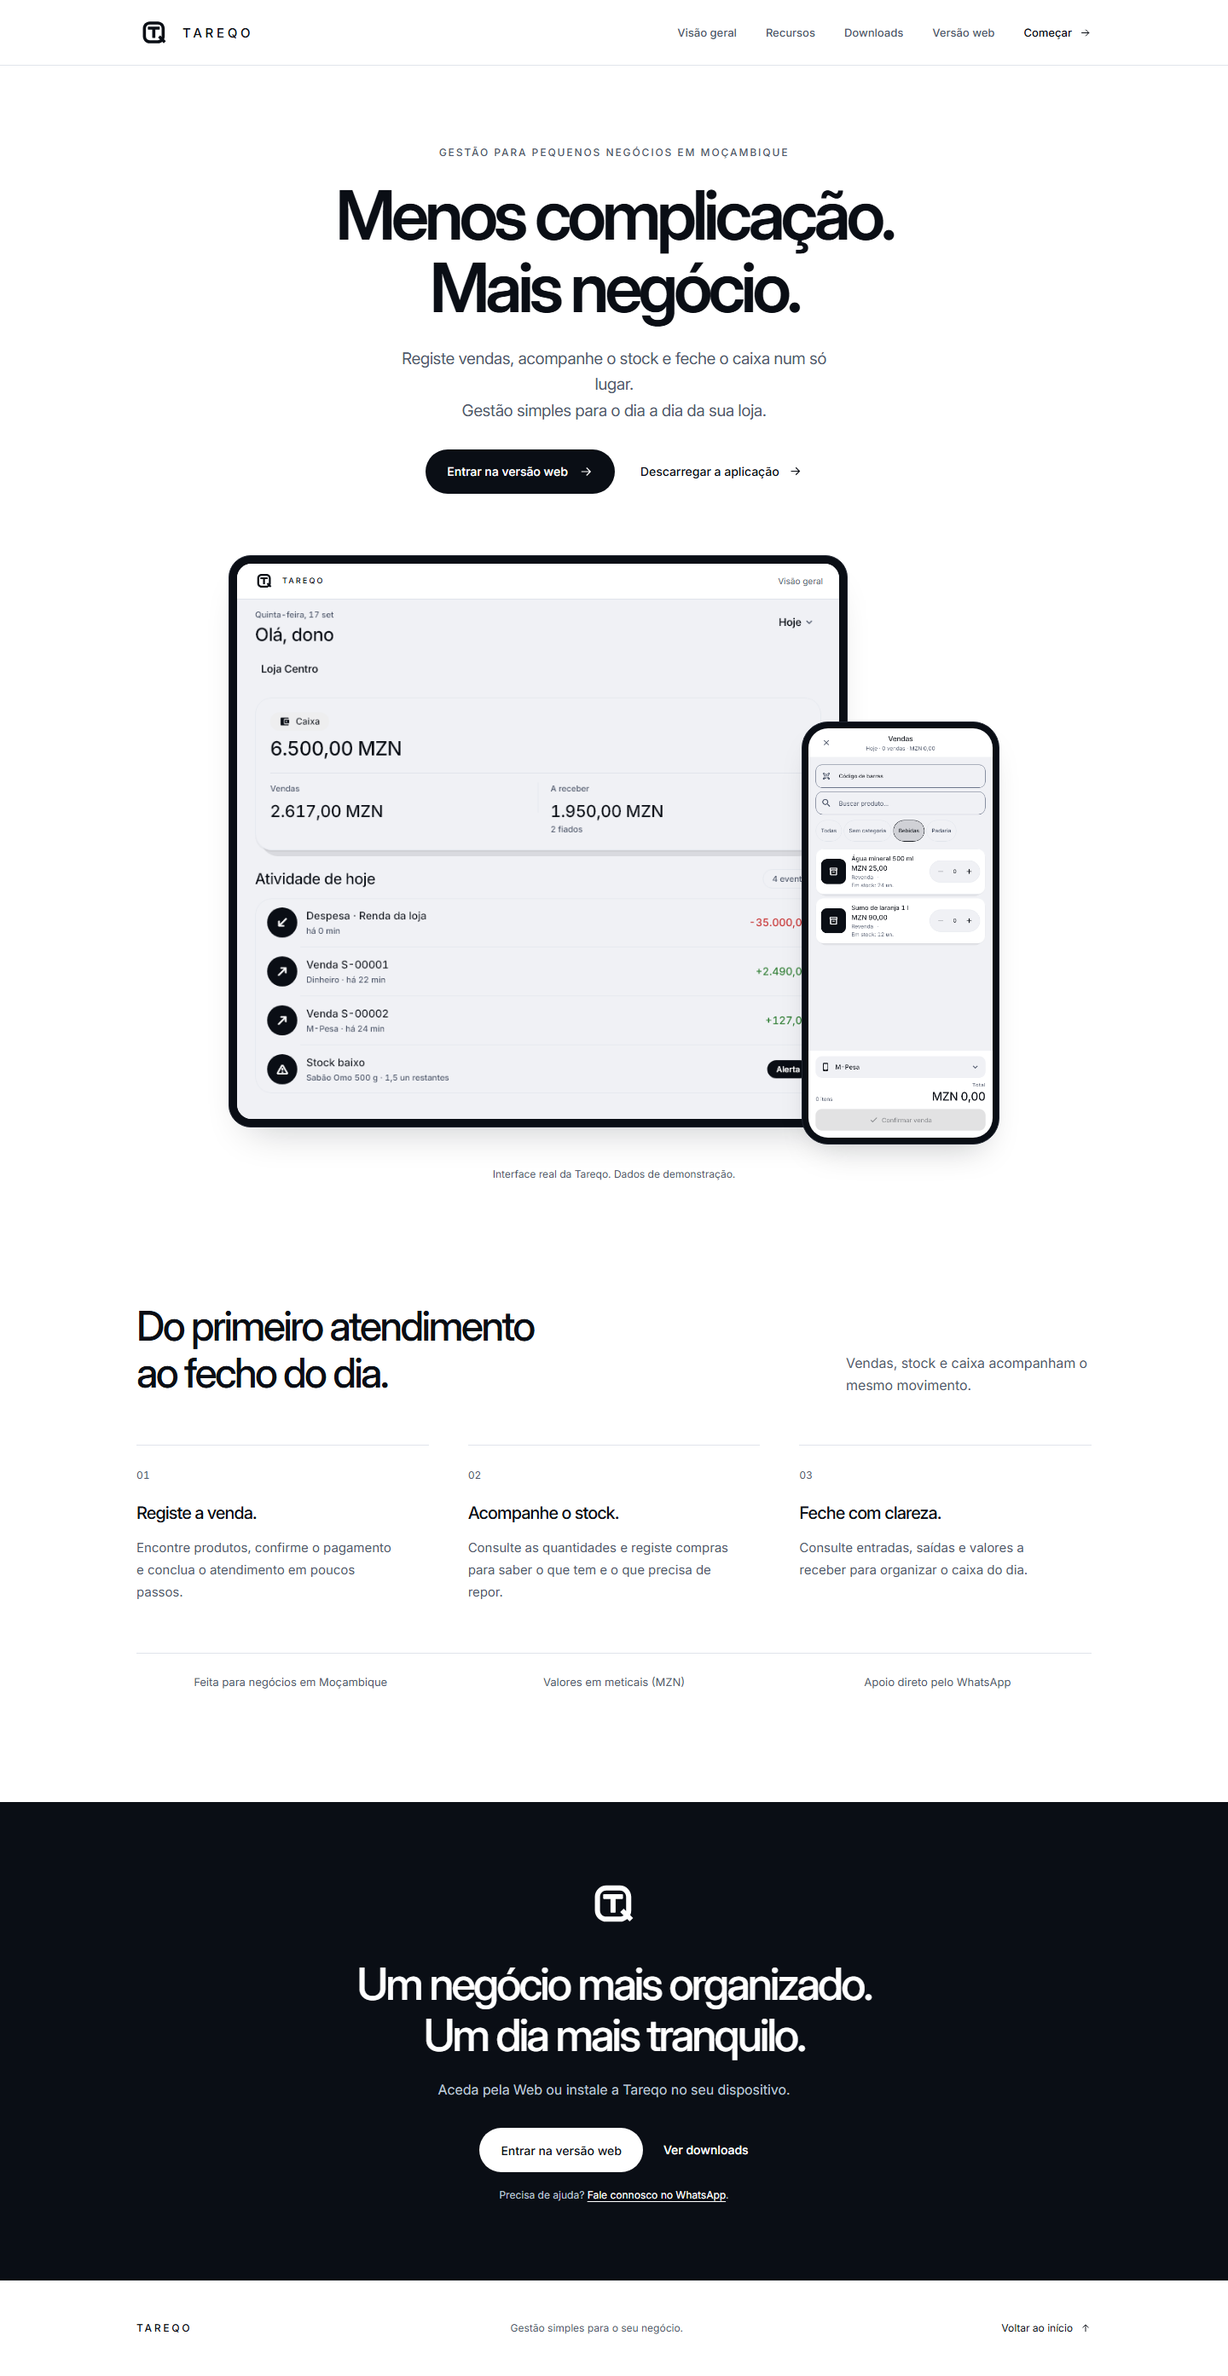
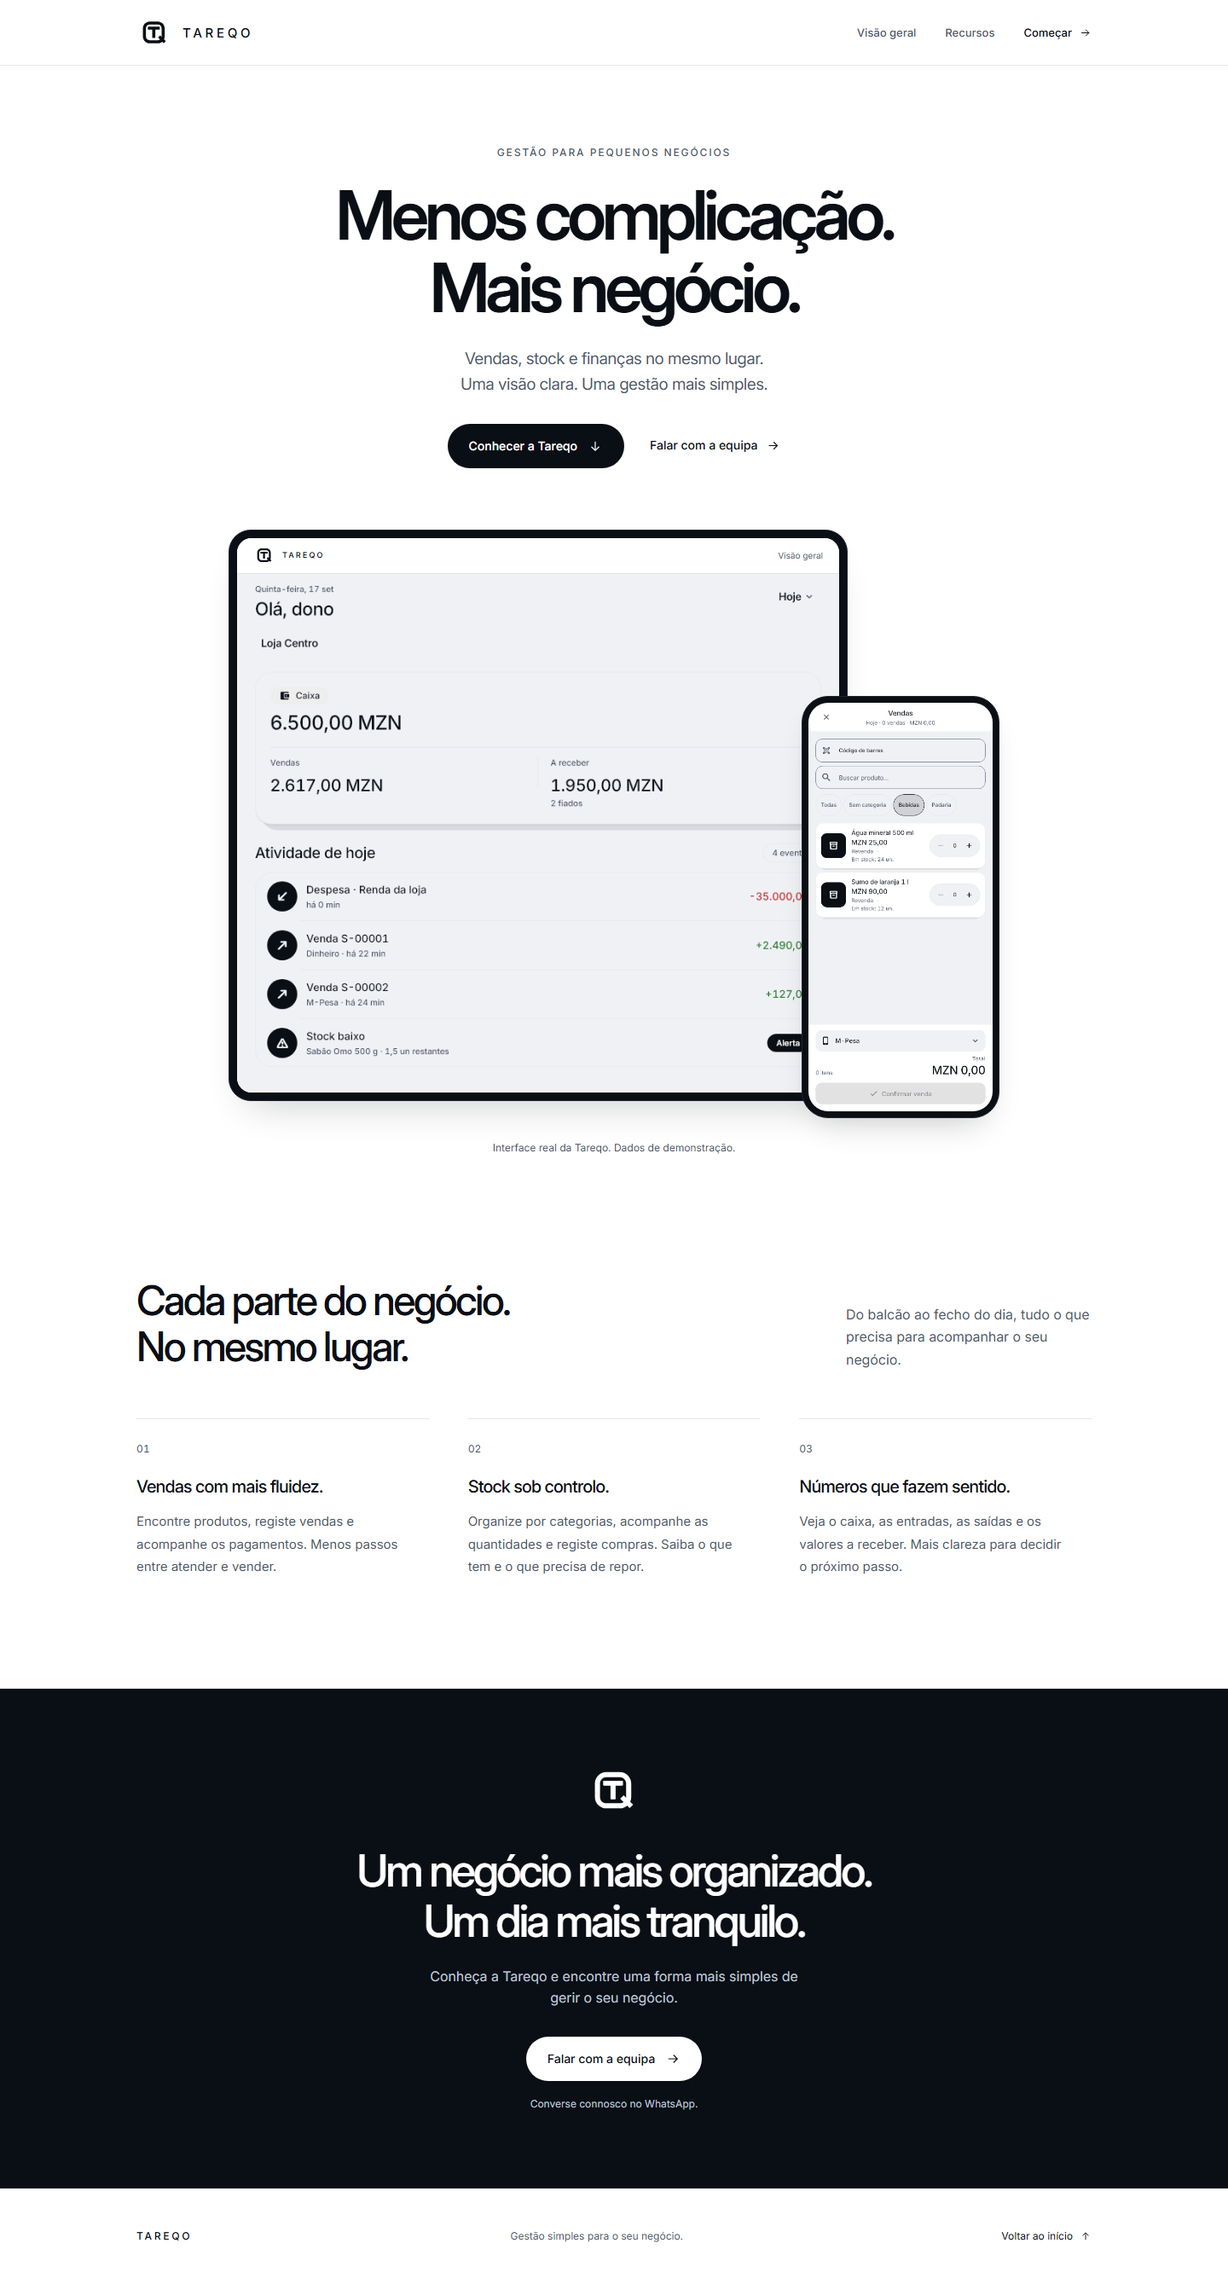
Revert "feat(landing): clarify Tareqo value and downloads"
This reverts commit 401ec6ac0885d5e40be1bd7742ed1b0695684dec.

diff --git a/website/index.html b/website/index.html
@@ -4,13 +4,13 @@
   <meta charset="utf-8">
   <meta name="viewport" content="width=device-width, initial-scale=1">
   <meta name="theme-color" content="#FFFFFF">
-  <meta name="description" content="Gestão para pequenos negócios em Moçambique: vendas, stock, compras e caixa num só lugar.">
+  <meta name="description" content="Vendas, stock e finanças no mesmo lugar. Conheça a Tareqo: uma forma simples de gerir o seu negócio, as suas lojas e a sua equipa.">
   <meta property="og:type" content="website">
   <meta property="og:title" content="Tareqo — Menos complicação. Mais negócio.">
-  <meta property="og:description" content="Registe vendas, acompanhe o stock e feche o caixa com uma visão clara do seu negócio.">
+  <meta property="og:description" content="Uma visão clara das vendas, do stock e das finanças. Gestão pensada para o seu dia a dia.">
   <meta property="og:locale" content="pt_MZ">
   <meta name="color-scheme" content="light">
-  <title>Tareqo — Vendas, stock e caixa para pequenos negócios</title>
+  <title>Tareqo — Menos complicação. Mais negócio.</title>
   <link rel="icon" href="assets/favicon.svg" type="image/svg+xml">
   <link rel="preload" href="assets/Inter-Variable.ttf" as="font" type="font/ttf" crossorigin>
   <style>
@@ -151,17 +151,13 @@
     .feature-number { display: block; margin-bottom: 22px; color: var(--text-secondary); font-size: 12px; font-variant-numeric: tabular-nums; }
     .feature h3 { font-size: 20px; font-weight: 500; letter-spacing: -0.04em; line-height: 1.35; }
     .feature p { margin-top: 14px; color: var(--text-secondary); font-size: 15px; line-height: 1.75; max-width: 310px; }
-    .trust-list { display: grid; grid-template-columns: repeat(3, 1fr); gap: 18px; margin: 58px 0 0; padding: 23px 0 0; border-top: 1px solid var(--line); list-style: none; color: var(--text-secondary); text-align: center; font-size: 13px; }
     .closing { background: var(--ink); color: var(--paper); padding: 84px 24px 90px; text-align: center; }
     .closing-logo { width: 70px; height: 70px; margin: 0 auto 30px; }
     .closing h2 { max-width: 710px; margin: auto; font-size: clamp(34px, 4.1vw, 52px); }
     .closing-copy { max-width: 460px; margin: 22px auto 0; color: var(--on-dark-secondary); font-size: 16px; }
     .button-light { margin-top: 32px; background: var(--paper); color: var(--ink); }
     .button-light:hover { background: var(--canvas); transform: translateY(-2px); }
-    .closing-actions { display: flex; align-items: center; justify-content: center; flex-wrap: wrap; gap: 12px 24px; }
-    .closing-link { display: inline-flex; align-items: center; justify-content: center; min-height: 50px; margin-top: 32px; color: var(--paper); font-size: 14px; font-weight: 500; }
     .contact-note { margin-top: 17px; color: var(--on-dark-secondary); font-size: 12px; }
-    .contact-note a { color: var(--paper); text-decoration: underline; text-underline-offset: 3px; }
     .site-footer { padding: 32px 0; }
     .footer-inner { display: flex; align-items: center; justify-content: space-between; gap: 24px; }
     .footer-inner .wordmark { font-size: 12px; letter-spacing: 0.23em; }
@@ -213,7 +209,6 @@
       .feature-number { margin-bottom: 14px; }
       .feature h3 { font-size: 21px; }
       .feature p { max-width: 100%; font-size: 15px; margin-top: 10px; }
-      .trust-list { grid-template-columns: 1fr; gap: 10px; margin-top: 40px; text-align: left; }
       .closing { padding: 62px 20px 64px; }
       .closing-logo { width: 60px; height: 60px; margin-bottom: 25px; }
       .closing h2 { font-size: 34px; }
@@ -254,12 +249,13 @@
   </header>
   <main id="conteudo" tabindex="-1">
     <section class="hero container" aria-labelledby="hero-title">
-      <p class="eyebrow">Gestão para pequenos negócios em Moçambique</p>
+      <p class="eyebrow">Gestão para pequenos negócios</p>
       <h1 id="hero-title"><span>Menos complicação.</span><span>Mais negócio.</span></h1>
-      <p class="hero-copy">Registe vendas, acompanhe o stock e feche o caixa num só lugar.<br>Gestão simples para o dia a dia da sua loja.</p>
+      <p class="hero-copy">Vendas, stock e finanças no mesmo lugar.<br>Uma visão clara. Uma gestão mais simples.</p>
       <div class="hero-actions">
-        <a class="button button-dark" href="https://app.dumbhanengue.com/">Entrar na versão web <svg viewBox="0 0 24 24" fill="none" stroke="currentColor" stroke-width="1.6" aria-hidden="true"><path d="M5 12h14M13 6l6 6-6 6"/></svg></a>
-        <a class="text-link" href="downloads.html">Descarregar a aplicação <svg viewBox="0 0 24 24" fill="none" stroke="currentColor" stroke-width="1.6" aria-hidden="true"><path d="M5 12h14M13 6l6 6-6 6"/></svg></a>
+        <a class="button button-dark" href="#produto">Conhecer a Tareqo <svg viewBox="0 0 24 24" fill="none" stroke="currentColor" stroke-width="1.6" aria-hidden="true"><path d="M12 5v14M6 13l6 6 6-6"/></svg></a>
+        <a class="text-link" href="https://app.dumbhanengue.com/">Abrir no navegador <svg viewBox="0 0 24 24" fill="none" stroke="currentColor" stroke-width="1.6" aria-hidden="true"><path d="M5 12h14M13 6l6 6-6 6"/></svg></a>
+        <a class="text-link" href="https://wa.me/258846606062?text=Ol%C3%A1%21%20Quero%20conhecer%20a%20Tareqo%20para%20o%20meu%20neg%C3%B3cio." target="_blank" rel="noopener noreferrer">Falar com a equipa <svg viewBox="0 0 24 24" fill="none" stroke="currentColor" stroke-width="1.6" aria-hidden="true"><path d="M5 12h14M13 6l6 6-6 6"/></svg><span class="sr-only"> (WhatsApp, abre numa nova janela)</span></a>
       </div>
       <figure class="product" id="produto" aria-label="Uma visão do aplicativo Tareqo">
         <div class="product-stage">
@@ -278,41 +274,34 @@
     </section>
     <section class="capabilities container" id="recursos" aria-labelledby="recursos-title">
       <div class="section-heading">
-        <h2 id="recursos-title">Do primeiro atendimento<br>ao fecho do dia.</h2>
-        <p>Vendas, stock e caixa acompanham o mesmo movimento.</p>
+        <h2 id="recursos-title">Cada parte do negócio.<br>No mesmo lugar.</h2>
+        <p>Do balcão ao fecho do dia, tudo o que precisa para acompanhar o seu negócio.</p>
       </div>
       <div class="feature-grid">
         <article class="feature">
           <span class="feature-number" aria-hidden="true">01</span>
-          <h3>Registe a venda.</h3>
-          <p>Encontre produtos, confirme o pagamento e conclua o atendimento em poucos passos.</p>
+          <h3>Vendas com mais fluidez.</h3>
+          <p>Encontre produtos, registe vendas e acompanhe os pagamentos. Menos passos entre atender e vender.</p>
         </article>
         <article class="feature">
           <span class="feature-number" aria-hidden="true">02</span>
-          <h3>Acompanhe o stock.</h3>
-          <p>Consulte as quantidades e registe compras para saber o que tem e o que precisa de repor.</p>
+          <h3>Stock sob controlo.</h3>
+          <p>Organize por categorias, acompanhe as quantidades e registe compras. Saiba o que tem e o que precisa de repor.</p>
         </article>
         <article class="feature">
           <span class="feature-number" aria-hidden="true">03</span>
-          <h3>Feche com clareza.</h3>
-          <p>Consulte entradas, saídas e valores a receber para organizar o caixa do dia.</p>
+          <h3>Números que fazem sentido.</h3>
+          <p>Veja o caixa, as entradas, as saídas e os valores a receber. Mais clareza para decidir o próximo passo.</p>
         </article>
       </div>
-      <ul class="trust-list" aria-label="Informações sobre a Tareqo">
-        <li>Feita para negócios em Moçambique</li>
-        <li>Valores em meticais (MZN)</li>
-        <li>Apoio direto pelo WhatsApp</li>
-      </ul>
     </section>
     <section class="closing" id="comecar" aria-labelledby="comecar-title">
       <img class="closing-logo" src="assets/tq-white.svg" width="70" height="70" alt="">
       <h2 id="comecar-title">Um negócio mais organizado.<br>Um dia mais tranquilo.</h2>
-      <p class="closing-copy">Aceda pela Web ou instale a Tareqo no seu dispositivo.</p>
-      <div class="closing-actions">
-        <a class="button button-light" href="https://app.dumbhanengue.com/">Entrar na versão web</a>
-        <a class="closing-link" href="downloads.html">Ver downloads</a>
-      </div>
-      <p class="contact-note">Precisa de ajuda? <a href="https://wa.me/258846606062?text=Ol%C3%A1%21%20Quero%20conhecer%20a%20Tareqo%20para%20o%20meu%20neg%C3%B3cio." target="_blank" rel="noopener noreferrer">Fale connosco no WhatsApp</a>.</p>
+      <p class="closing-copy">Conheça a Tareqo e encontre uma forma mais simples de gerir o seu negócio.</p>
+      <a class="button button-light" href="downloads.html" style="margin-right: 10px;">Descarregar a aplicação</a>
+      <a class="button button-light" href="https://wa.me/258846606062?text=Ol%C3%A1%21%20Quero%20conhecer%20a%20Tareqo%20para%20o%20meu%20neg%C3%B3cio." target="_blank" rel="noopener noreferrer" aria-label="Falar com a equipa no WhatsApp (abre numa nova janela)">Falar com a equipa <svg viewBox="0 0 24 24" fill="none" stroke="currentColor" stroke-width="1.6" aria-hidden="true"><path d="M5 12h14M13 6l6 6-6 6"/></svg></a>
+      <p class="contact-note">Converse connosco no WhatsApp.</p>
     </section>
   </main>
   <footer class="site-footer">

diff --git a/website/downloads.html b/website/downloads.html
@@ -4,7 +4,7 @@
   <meta charset="utf-8">
   <meta name="viewport" content="width=device-width, initial-scale=1">
   <meta name="theme-color" content="#FFFFFF">
-  <meta name="description" content="Aceda à Tareqo pela Web ou instale a aplicação em Android e Windows.">
+  <meta name="description" content="Use a Tareqo no navegador ou descarregue para Android e Windows. A versão para iPhone estará disponível em breve.">
   <title>Downloads — Tareqo</title>
   <link rel="icon" href="assets/favicon.svg" type="image/svg+xml">
   <link rel="preload" href="assets/Inter-Variable.ttf" as="font" type="font/ttf" crossorigin>
@@ -15,7 +15,7 @@
     a{color:inherit;text-decoration:none} a:focus-visible{outline:2px solid currentColor;outline-offset:5px} .container{width:min(var(--width),calc(100% - 40px));margin:auto}
     header{border-bottom:1px solid var(--line)} .header{min-height:76px;display:flex;align-items:center;justify-content:space-between;gap:20px}.brand{display:flex;align-items:center;gap:10px}.brand img{width:40px;height:40px}.wordmark{font-size:14px;font-weight:600;letter-spacing:.24em}.back{font-size:14px;color:var(--secondary)}
     main{padding:88px 0 110px}.eyebrow{text-transform:uppercase;letter-spacing:.15em;font-size:12px;color:var(--secondary)}h1{margin:16px 0 0;font-size:clamp(42px,7vw,68px);line-height:1.06;letter-spacing:-.06em;font-weight:600}.intro{max-width:560px;color:var(--secondary);font-size:18px;margin:22px 0 0}
-    .grid{display:grid;grid-template-columns:repeat(auto-fit,minmax(220px,1fr));gap:18px;margin-top:48px}.card{border:1px solid var(--line);border-radius:20px;padding:28px;display:flex;flex-direction:column;min-height:260px}.platform{font-size:12px;color:var(--secondary);text-transform:uppercase;letter-spacing:.12em}.card h2{font-size:23px;letter-spacing:-.04em;margin:12px 0 8px}.card p{font-size:14px;color:var(--secondary);margin:0 0 24px}.button{margin-top:auto;min-height:48px;padding:12px 18px;background:var(--ink);color:white;border-radius:999px;text-align:center;font-size:14px;font-weight:500}.button:hover{background:#212631}.soon{background:var(--canvas);color:var(--secondary);cursor:default}.note{margin-top:26px;font-size:13px;color:var(--secondary)}.note a{color:var(--ink);text-decoration:underline;text-underline-offset:3px}footer{border-top:1px solid var(--line);padding:24px 0;color:var(--secondary);font-size:12px}.footer{display:flex;justify-content:space-between;gap:16px}
+    .grid{display:grid;grid-template-columns:repeat(auto-fit,minmax(220px,1fr));gap:18px;margin-top:48px}.card{border:1px solid var(--line);border-radius:20px;padding:28px;display:flex;flex-direction:column;min-height:260px}.platform{font-size:12px;color:var(--secondary);text-transform:uppercase;letter-spacing:.12em}.card h2{font-size:23px;letter-spacing:-.04em;margin:12px 0 8px}.card p{font-size:14px;color:var(--secondary);margin:0 0 24px}.button{margin-top:auto;min-height:48px;padding:12px 18px;background:var(--ink);color:white;border-radius:999px;text-align:center;font-size:14px;font-weight:500}.button:hover{background:#212631}.soon{background:var(--canvas);color:var(--secondary);cursor:default}.note{margin-top:26px;font-size:13px;color:var(--secondary)}footer{border-top:1px solid var(--line);padding:24px 0;color:var(--secondary);font-size:12px}.footer{display:flex;justify-content:space-between;gap:16px}
     @media(max-width:700px){main{padding:64px 0 76px}.grid{grid-template-columns:1fr;margin-top:34px}.card{min-height:220px}.intro{font-size:16px}.footer{flex-direction:column}}
   </style>
 </head>
@@ -24,14 +24,14 @@
   <main class="container">
     <p class="eyebrow">Instale a Tareqo</p>
     <h1>Downloads</h1>
-    <p class="intro">Entre pela Web ou instale a aplicação no Android ou Windows. Os downloads são sempre da versão oficial mais recente.</p>
+    <p class="intro">Abra a Tareqo no navegador ou instale no seu dispositivo. Use sempre a versão mais recente publicada pela equipa Tareqo.</p>
     <section class="grid" aria-label="Aplicações disponíveis">
-      <article class="card"><span class="platform">Web</span><h2>No navegador</h2><p>Entre na sua conta e use a Tareqo no navegador, sem instalar.</p><a class="button" href="https://app.dumbhanengue.com/" aria-label="Abrir a versão web da Tareqo no navegador">Abrir versão web</a></article>
-      <article class="card"><span class="platform">Android</span><h2>Telemóvel ou tablet</h2><p>APK oficial para instalar a Tareqo diretamente no seu dispositivo Android.</p><a class="button" href="https://github.com/tareqotechnologies/Tareqo/releases/latest/download/tareqo-android.apk" aria-label="Descarregar APK da versão mais recente da Tareqo para Android">Descarregar APK</a></article>
-      <article class="card"><span class="platform">Windows</span><h2>Computador</h2><p>Instalador único para Windows 10 e 11. Inclui a aplicação e os recursos necessários.</p><a class="button" href="https://github.com/tareqotechnologies/Tareqo/releases/latest/download/TAREQO_SETUP.exe" aria-label="Descarregar aplicação da versão mais recente da Tareqo para Windows">Descarregar para Windows</a></article>
-      <article class="card"><span class="platform">iPhone e iPad</span><h2>iOS</h2><p>A versão para iPhone e iPad ainda está em preparação.</p><span class="button soon" aria-label="Versão iOS em breve">Disponível em breve</span></article>
+      <article class="card"><span class="platform">Web</span><h2>No navegador</h2><p>Use a Tareqo sem instalar nada. Funciona em computador, tablet e telemóvel.</p><a class="button" href="https://app.dumbhanengue.com/" aria-label="Abrir a versão web da Tareqo no navegador">Abrir versão web</a></article>
+      <article class="card"><span class="platform">Android</span><h2>Telemóvel ou tablet</h2><p>Descarregue o ficheiro APK e abra-o no dispositivo Android para instalar.</p><a class="button" href="https://github.com/tareqotechnologies/Tareqo/releases/latest/download/tareqo-android.apk" aria-label="Descarregar APK da versão mais recente da Tareqo para Android">Descarregar APK</a></article>
+      <article class="card"><span class="platform">Windows</span><h2>Computador</h2><p>Obtenha a versão para Windows na página da versão mais recente.</p><a class="button" href="https://github.com/tareqotechnologies/Tareqo/releases/latest/download/TAREQO_SETUP.exe" aria-label="Descarregar aplicação da versão mais recente da Tareqo para Windows">Descarregar para Windows</a></article>
+      <article class="card"><span class="platform">iPhone e iPad</span><h2>iOS</h2><p>A versão para iOS estará disponível em breve. Estamos a preparar a distribuição.</p><span class="button soon" aria-label="Versão iOS em breve">Disponível em breve</span></article>
     </section>
-    <p class="note">Os ficheiros Android e Windows vêm da release oficial mais recente. Precisa de ajuda para instalar? <a href="https://wa.me/258846606062?text=Ol%C3%A1%21%20Preciso%20de%20ajuda%20para%20instalar%20a%20Tareqo." target="_blank" rel="noopener noreferrer">Fale connosco no WhatsApp</a>.</p>
+    <p class="note">A versão web abre diretamente no navegador. Em Android e Windows, será encaminhado para a página oficial de versões da Tareqo no GitHub. Se não encontrar o instalador, contacte a nossa equipa pelo WhatsApp.</p>
   </main>
   <footer><div class="container footer"><span class="wordmark">TAREQO</span><span>Gestão simples para o seu negócio.</span></div></footer>
 </body>
